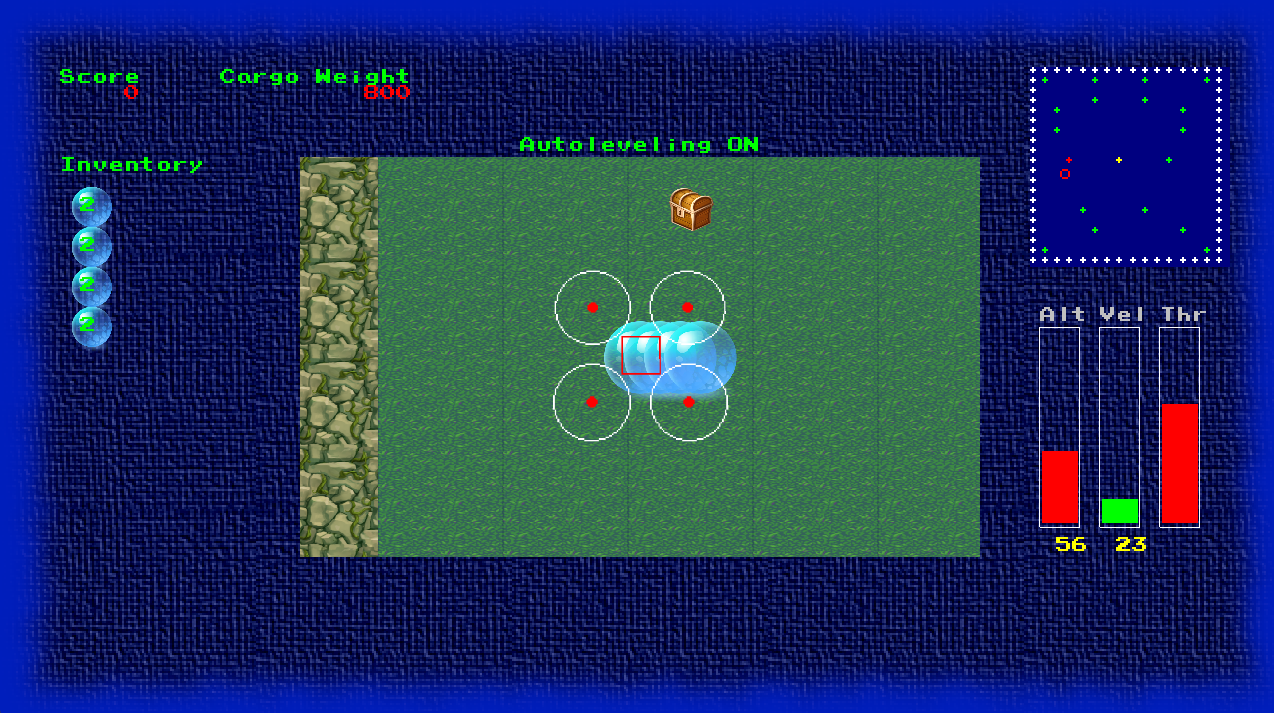
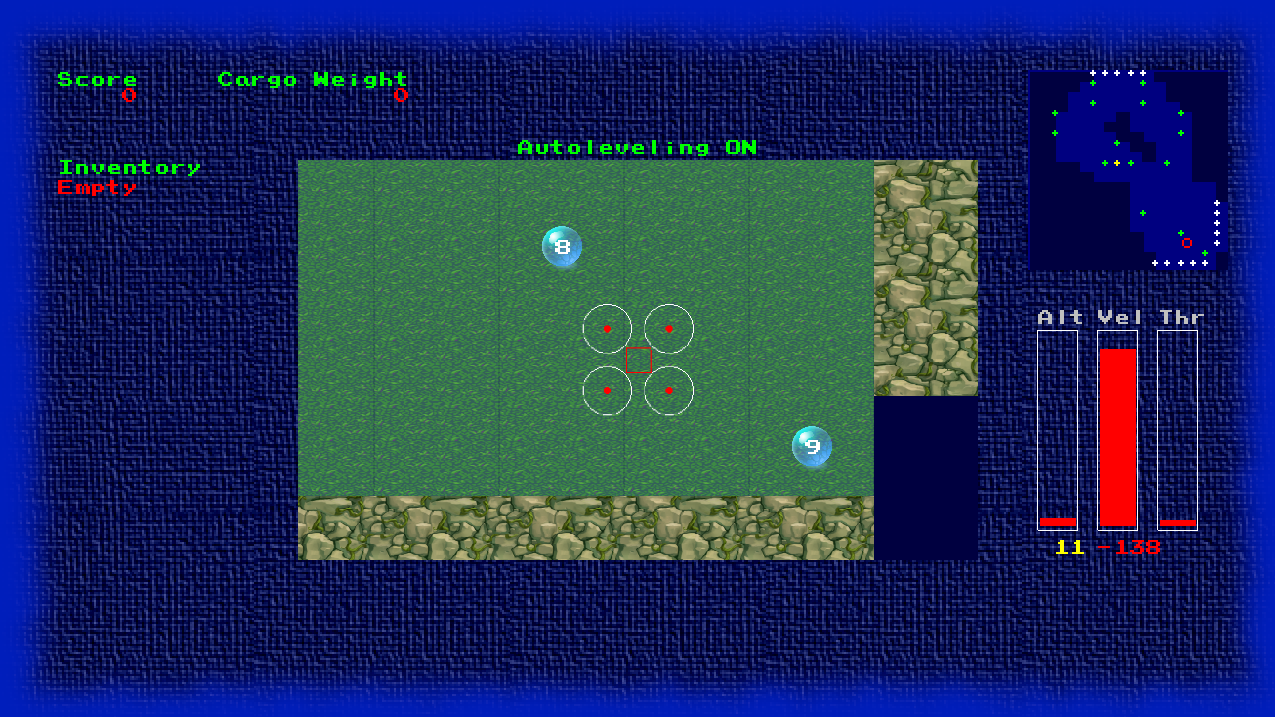
fog of war on minimap new screenshot

diff --git a/src/hover.cpp b/src/hover.cpp
@@ -1440,10 +1440,10 @@ public:
 
 		// draw cargos
 		for (int i = 0; i < cargos.size(); ++i) {
-			if (cargos[i].cargoType != ' ') {
+			olc::vi2d mc = WorldToMapCoord(cargos[i].pos);
+			if (game_map_fow[mc.y * charmap_dim.x + mc.x] != '.') {
+				if (cargos[i].cargoType != ' ') {
 
-				olc::vi2d mc = WorldToMapCoord(cargos[i].pos);
-				if (game_map_fow[mc.y * charmap_dim.x + mc.x] != '.') {
 
 					switch (char(cargos[i].cargoType)) {
 					case 'o':
@@ -1463,7 +1463,11 @@ public:
 						FillCircle({ mm_pos.x + int(cargos[i].pos.x * scale_x), mm_pos.y + int(cargos[i].pos.y * scale_y) }, 1, olc::GREEN);
 						break;
 					}
-				}
+			}
+			}
+			else {  // fog it up
+				FillRect({ mm_pos.x + int(cargos[i].pos.x * scale_x), mm_pos.y + int(cargos[i].pos.y * scale_y) },
+					olc::vf2d{ 7.0f, 5.0f }, olc::VERY_DARK_BLUE);
 			}
 		}
 
